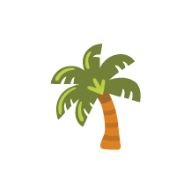
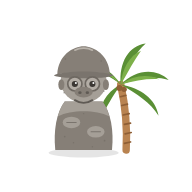
cat-house: 앱 아이콘을 제주 돌하르방 + 야자수 이미지로 변경
Claude-Session: https://claude.ai/code/session_017Yu3a2CvjA67Uw9nVVeR1S

Changed region(s): [[0.25, 0.2188, 0.875, 0.8438]]

diff --git a/cat-house/index.html b/cat-house/index.html
@@ -7,8 +7,8 @@
   <meta name="color-scheme" content="light">
   <meta name="theme-color" content="#f6f5f3">
   <link rel="manifest" href="manifest.webmanifest">
-  <link rel="icon" type="image/png" href="icon-192.png?v=palm2">
-  <link rel="apple-touch-icon" href="apple-touch-icon.png?v=palm2">
+  <link rel="icon" type="image/png" href="icon-192.png?v=jeju1">
+  <link rel="apple-touch-icon" href="apple-touch-icon.png?v=jeju1">
   <meta name="apple-mobile-web-app-capable" content="yes">
   <meta name="mobile-web-app-capable" content="yes">
   <meta name="apple-mobile-web-app-title" content="가족 소식통">
@@ -16,11 +16,11 @@
   <link rel="preconnect" href="https://fonts.googleapis.com">
   <link rel="preconnect" href="https://fonts.gstatic.com" crossorigin>
   <link href="https://fonts.googleapis.com/css2?family=Gowun+Dodum&family=Jua&display=swap" rel="stylesheet">
-  <link rel="stylesheet" href="style.css?v=20261023a">
+  <link rel="stylesheet" href="style.css?v=20261024a">
 </head>
 <body>
   <div id="splash" class="splash" aria-hidden="true">
-    <img src="icon-192.png?v=palm2" alt="" width="120" height="120">
+    <img src="icon-192.png?v=jeju1" alt="" width="120" height="120">
     <div class="splash-text">우리 가족 소식통</div>
   </div>
 
@@ -570,6 +570,6 @@
     window.dispatchEvent(new Event("cloud-ready"));
   </script>
 
-  <script src="script.js?v=20261023a"></script>
+  <script src="script.js?v=20261024a"></script>
 </body>
 </html>
